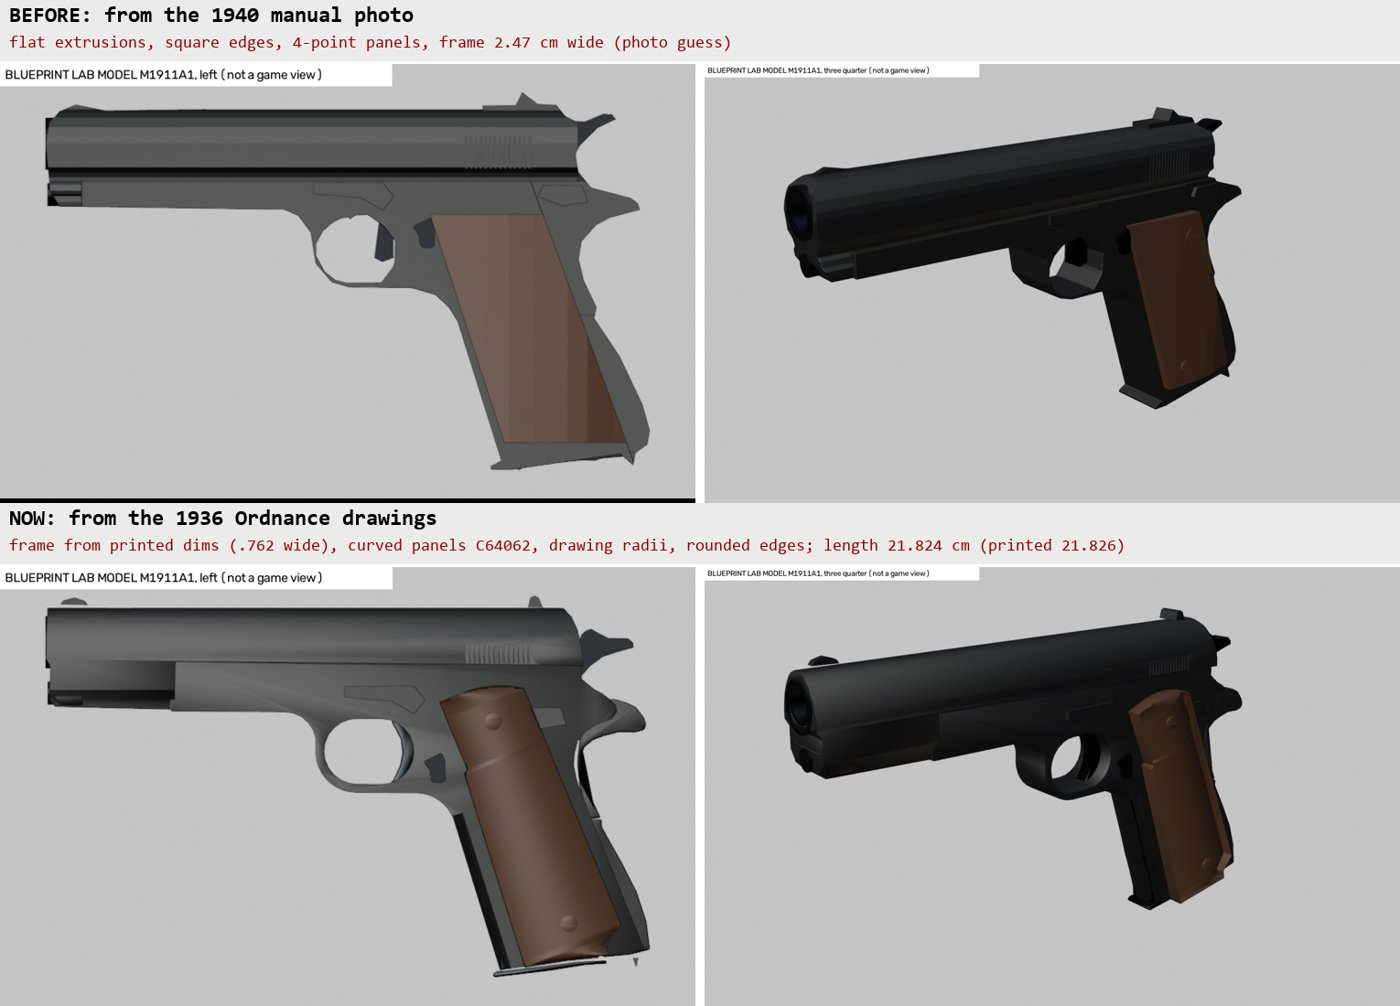
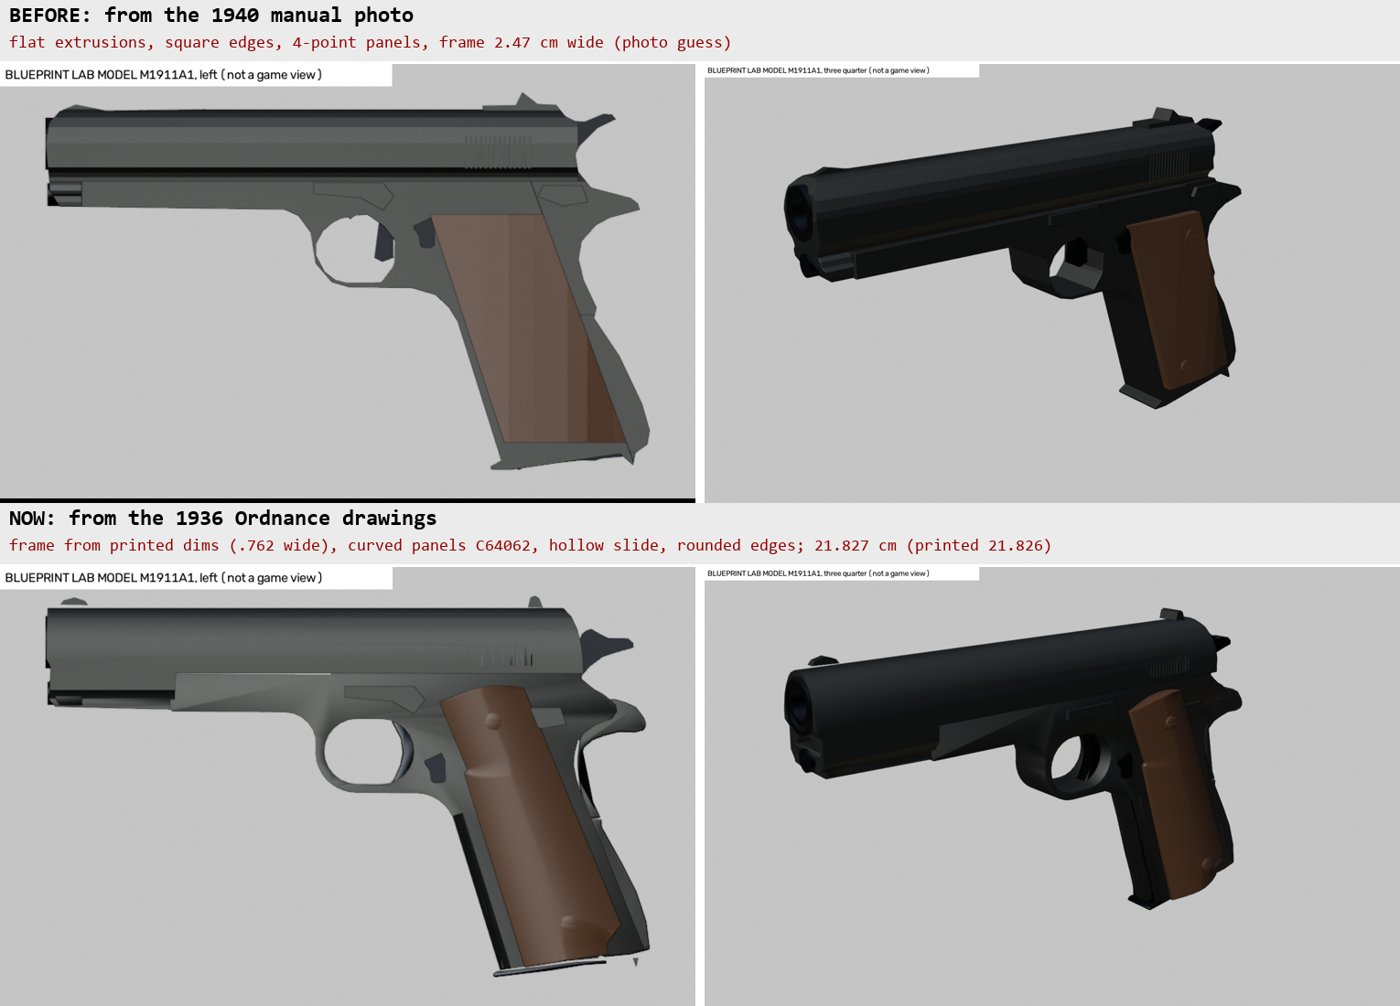
Blueprint Lab: the magazine's axis from its longest straight run (neighbour segments within 8 deg joined), not its longest single segment (a traced tube's top edge won and the magazine dropped level); doc picture redone

diff --git a/src/weaponlab/blueprint/build.py b/src/weaponlab/blueprint/build.py
@@ -18,10 +18,23 @@ def magazine_line(outline):
     """A magazine's own line from its side outline: the direction of its longest straight side (a magazine's front
     and back run along its well; the points' spread would lean toward a slanted outline's diagonal), pointing down,
     out of the well; and its length along it."""
+    import math
     import numpy as np
-    P = np.array(outline, dtype=float)
-    segs = [(np.linalg.norm(b - a), b - a) for a, b in zip(P, np.roll(P, -1, axis=0))]
-    d = max(segs, key=lambda s: s[0])[1]
+    P = np.array([q[:2] for q in outline], dtype=float)
+    segs = [b - a for a, b in zip(P, np.roll(P, -1, axis=0)) if np.linalg.norm(b - a) > 1e-9]
+    # a traced side is many short segments: neighbours running the same way (within 8 degrees of the run's start) are
+    # one straight run; the longest run is the magazine's front or back
+    runs, cur = [], None
+    for v in segs + segs[:1]:
+        u = v / np.linalg.norm(v)
+        if cur is not None and float(u @ cur[1]) >= math.cos(math.radians(8.0)):
+            cur[0] += v
+        else:
+            if cur is not None:
+                runs.append(cur[0])
+            cur = [v.copy(), u]
+    runs.append(cur[0])
+    d = max(runs, key=lambda r: float(np.linalg.norm(r)))
     d = d / np.linalg.norm(d)
     if d[1] > 0:
         d = -d
